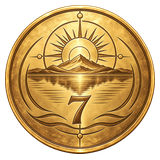
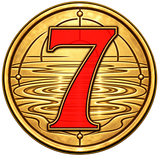
Refresh nine energy medallions with large translucent numerals

diff --git a/webapp/WebApplication/Helpers/MobileArtworkRegistry.Data.cs b/webapp/WebApplication/Helpers/MobileArtworkRegistry.Data.cs
@@ -309,15 +309,15 @@ namespace K9.WebApplication.Helpers
[24 lines of base64/hex data omitted]

diff --git a/docs/ninestar-artwork-report.md b/docs/ninestar-artwork-report.md
@@ -8,6 +8,12 @@ The owner-approved UI medallion is the reference: warm antique gold, burnished c
 
 The built-in image-generation tool creates the sculpted illustration, using the approved Constitution medallion as its explicit style reference. Organ silhouettes and polarity icons also use their old artwork as subject references. The existing approved blank gold medallion supplies the neutral trigram background. Export restores exact original dimensions without flattening alpha. Precise symbols and relationships are composed as vector geometry with `tools/render-ninestar-diagrams.py`, rather than trusting generated text, bars or arrows.
 
+## Large energy numerals
+
+The nine energy medallions now use large central serif numerals in the approved energy colours. The owner-approved visible artwork and rims are retained. Because the previews were flattened, the artwork hidden by each numeral was reconstructed with image generation. Numeral fill masks are then composited numerically as 90% numeral colour plus 10% reconstructed background, rather than generating an imitation pattern inside the glyph. Existing fine bevels and outlines remain for readability. Outside the fill mask, the approved image pixels and exterior alpha are preserved before resizing. Final exports keep the existing 160 × 160 PNG paths and transparent exterior. Core Earth deliberately uses restrained circular embossing.
+
+Validation checks the blend equation, unchanged pixels outside each fill mask, preserved alpha, all nine output dimensions/formats and regenerated catalogue revisions. This change only replaces the nine energy images and their metadata; no page layout or image-loading behaviour changes.
+
 ## Source audit and correction
 
 The old `elements/cycle-five-dark.png` was byte-identical to `transformations/transformation-same-dark.png`: it showed five sibling pairs. The light cycle-of-five file and its owning knowledge-base article, `Globalisation/Elements/en-gb/five-elements.htm`, instead show Earth between Fire and Metal in the supportive cycle. The refresh corrects the dark cycle-of-five image to the same directed cycle as the light image. The old light cycle-of-four graphic also omitted its Fire label; both redrawn variants now contain all five existing Dictionary element labels. Both cycle-of-five files deliberately share their final content with the matching supportive-transformation file.
@@ -56,15 +62,15 @@ All paths below are relative to Images/ninestar. The artwork ID and variant rema
 | `elements/metal.png` | 160 × 160 | `ninestar.elements.metal` | default | An elegant polished metal disc with concentric turned-metal rings, unmistakable metal element, no numbers. |
 | `elements/tree.png` | 160 × 160 | `ninestar.elements.tree` | default | One beautiful rooted tree with a spreading leafy canopy, pure tree element. No numbers. |
 | `elements/water.png` | 160 × 160 | `ninestar.elements.water` | default | A bold sculpted water droplet above concentric ripples, pure water element. No numbers. |
-| `energies/coreearth.png` | 160 × 160 | `ninestar.energies.coreearth` | default | An Earth globe with recognisable continents symbolising the centre, with the single large unmistakable Arabic numeral 5 in dark bronze at lower centre. |
-| `energies/fire.png` | 160 × 160 | `ninestar.energies.fire` | default | A bold upward dancing flame, with the single large unmistakable Arabic numeral 9 in dark bronze at lower centre. |
-| `energies/heaven.png` | 160 × 160 | `ninestar.energies.heaven` | default | A luminous open sky with two restrained sculpted clouds, with the single large unmistakable Arabic numeral 6 in dark bronze at lower centre. |
-| `energies/lake.png` | 160 × 160 | `ninestar.energies.lake` | default | A still lake with a low distant mountain reflected in it, with the single large unmistakable Arabic numeral 7 in dark bronze at lower centre. |
-| `energies/mountain.png` | 160 × 160 | `ninestar.energies.mountain` | default | One strong majestic mountain peak, with the single large unmistakable Arabic numeral 8 in dark bronze at lower centre. |
-| `energies/soil.png` | 160 × 160 | `ninestar.energies.soil` | default | Layered fertile earth and gently furrowed soil, with the single large unmistakable Arabic numeral 2 in dark bronze at lower centre. |
-| `energies/thunder.png` | 160 × 160 | `ninestar.energies.thunder` | default | A bold lightning bolt emerging from a small storm cloud, with the single large unmistakable Arabic numeral 3 in dark bronze at lower centre. |
-| `energies/water.png` | 160 × 160 | `ninestar.energies.water` | default | A sculpted water droplet above flowing ripples, with the single large unmistakable Arabic numeral 1 in dark bronze at lower centre. |
-| `energies/wind.png` | 160 × 160 | `ninestar.energies.wind` | default | Gracefully flowing wind ribbons through a simple leafy branch, with the single large unmistakable Arabic numeral 4 in dark bronze at lower centre. |
+| `energies/coreearth.png` | 160 × 160 | `ninestar.energies.coreearth` | default | Bright yellow 5 over minimal concentric core circles and globe arcs. |
+| `energies/fire.png` | 160 × 160 | `ninestar.energies.fire` | default | Purple 9 over curling golden flames. |
+| `energies/heaven.png` | 160 × 160 | `ninestar.energies.heaven` | default | White 6 over celestial clouds, stars and rays. |
+| `energies/lake.png` | 160 × 160 | `ninestar.energies.lake` | default | Red 7 over calm lake ripples and reflections. |
+| `energies/mountain.png` | 160 × 160 | `ninestar.energies.mountain` | default | White 8 over golden mountain ridges. |
+| `energies/soil.png` | 160 × 160 | `ninestar.energies.soil` | default | Black 2 over fertile soil strata and furrows. |
+| `energies/thunder.png` | 160 × 160 | `ninestar.energies.thunder` | default | Bright green 3 over lightning and storm scrolls. |
+| `energies/water.png` | 160 × 160 | `ninestar.energies.water` | default | White 1 over flowing water and ripple patterns, without a central droplet. |
+| `energies/wind.png` | 160 × 160 | `ninestar.energies.wind` | default | Deep green 4 over wind ribbons and swept leaves. |
 | `modalities/dynamic.png` | 160 × 160 | `ninestar.modalities.dynamic` | default | A bold energetic burst of sculpted sparks and rays, dynamic outward movement. No numbers. |
 | `modalities/reflective.png` | 160 × 160 | `ninestar.modalities.reflective` | default | A still lake reflecting a mountain beneath a quiet crescent, inward reflective calm. No numbers. |
 | `modalities/stable.png` | 160 × 160 | `ninestar.modalities.stable` | default | Shared with the redesigned Earth element: grounded mountain/earth. |

diff --git a/docs/visual-design.md b/docs/visual-design.md
@@ -43,3 +43,5 @@ Artwork uses the built-in image-generation tool. The shared prompt requests a fr
 The `Images/ninestar` family includes energies, elements, modalities, organs, seasons, trigrams, transformations and yin/yang. Preserve energy numerals, recognisable organ/element subjects and the exact top-to-bottom trigram line patterns. The centre has no assigned trigram; do not invent one. Preserve yin/yang polarity and neutral unspecified state. Use deep bronze against gold for readable symbolic contrast.
 
 Relationship diagrams retain open transparent space between gold element emblems. Their connections and trigram bars are precise vector geometry, not guessed generated diagram marks. `tools/render-ninestar-diagrams.py` renders the checked patterns and directed relationships using the generated gold element artwork. Its existing element labels come from Dictionary.resx. Light and dark variants preserve their respective label/arrow contrast, original filenames and dimensions. The cycle-of-five and supportive transformation share the same directed five-element graph; the former dark image incorrectly used sibling pairs and is corrected by this refresh. See `docs/ninestar-artwork-report.md` for the detailed audit and validation.
+
+Energy identifiers use large central serif numerals (at least 75% height as the design target), in their established colours: white Water/Heaven/Mountain, black Soil, bright green Thunder, deep green Wind, yellow Core Earth, red Lake and purple Fire. Composite the numeral fill at 90% opacity over a single continuous artwork background; do not generate a different imitation pattern inside the number. Preserve the approved visible background and transparent exterior. Core Earth uses minimal circular core/globe embossing.
